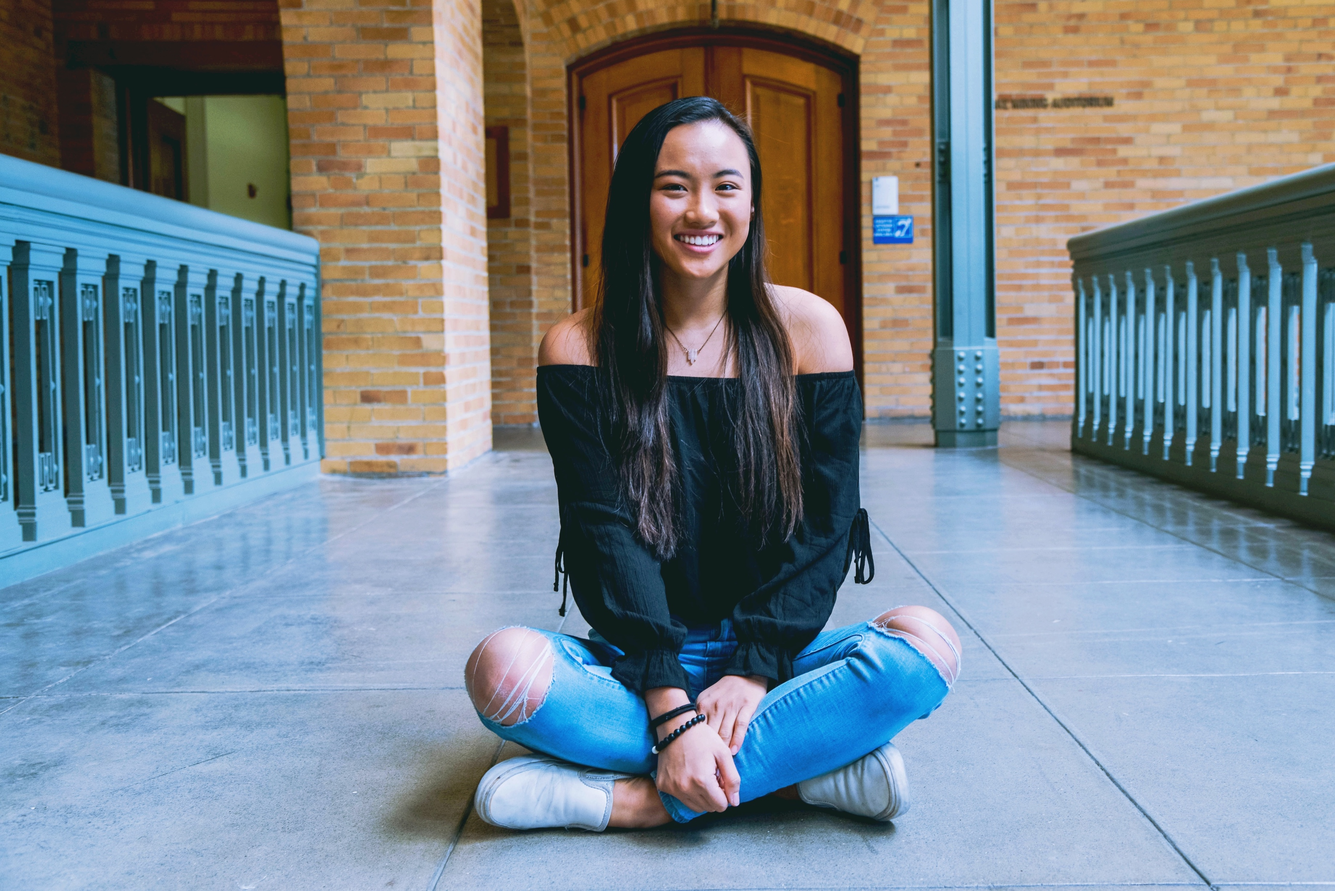
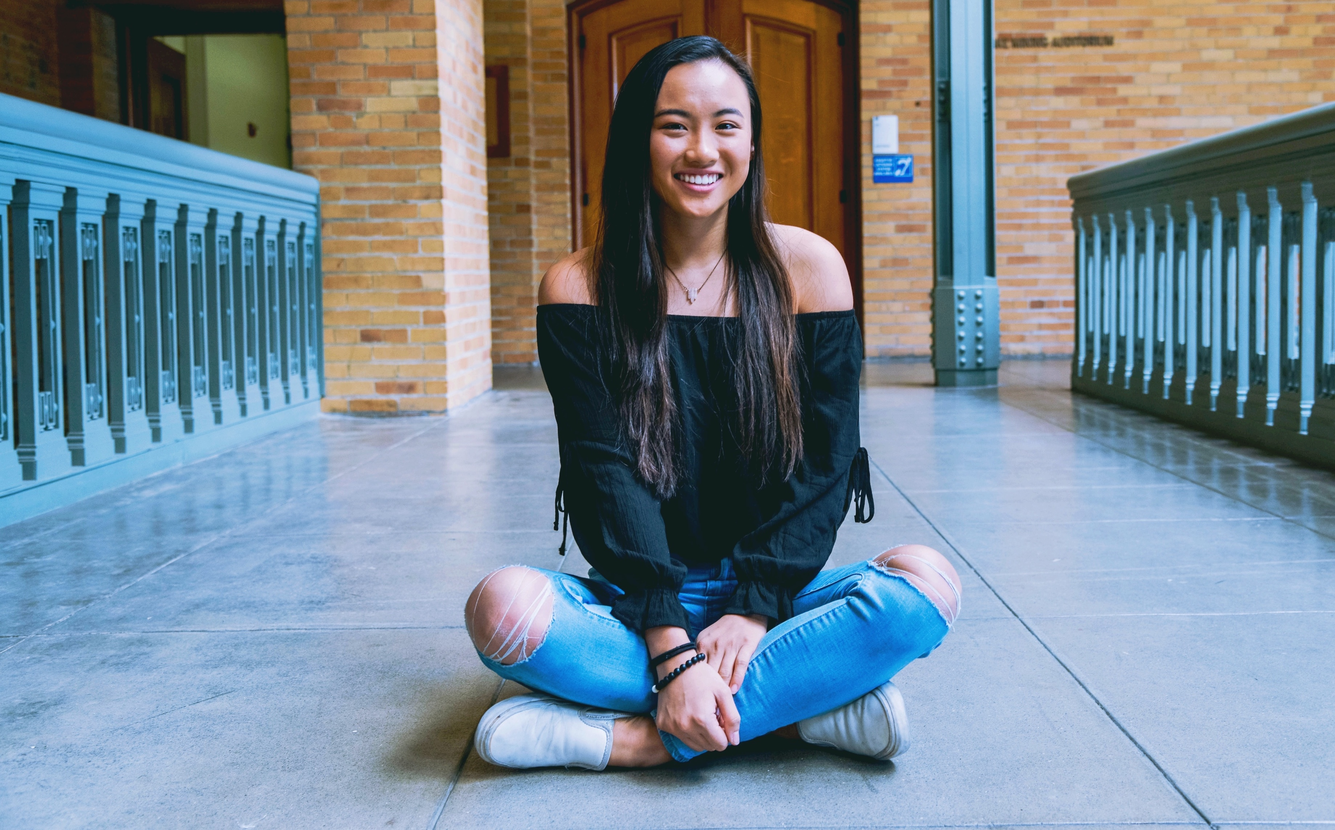
adding lots of stuff to wrap up basics

diff --git a/src/components/Home.js b/src/components/Home.js
@@ -6,21 +6,21 @@ import Profile from './pictures/profile.jpg';
 class App extends Component {
   render() {
     return (
-      <div className="background">
-          <div className="background-text">
-            <h className="home-title">RACHEL LAU</h>
-            <br/>
-            <p className="text">
-              <Link className="home-route-button" to='/about-me'>about me</Link>
-              &nbsp;•&nbsp;
-              <Link className="home-route-button" to='/projects'>projects</Link>
-              &nbsp;•&nbsp;
-              <Link className="home-route-button" to='/coffee'>coffee</Link>
-              &nbsp;•&nbsp;
-              <Link className="home-route-button" to='/photography/landscape'>photography</Link>
-            </p>
-            <a href="https://rachelslau.github.io" className="home-route-button old-versions">v1</a>
-          </div>
+      <div className="home-screen">
+        <img className="home-picture" src={Profile} width="100%"/>
+        <div className="background-text">
+          <h className="home-title">RACHEL LAU</h>
+          <br/>
+          <p className="text">
+            <Link className="home-route-button" to='/about-me'>about me</Link>
+            &nbsp;•&nbsp;
+            <Link className="home-route-button" to='/projects'>projects</Link>
+            &nbsp;•&nbsp;
+            <Link className="home-route-button" to='/coffee'>coffee</Link>
+            &nbsp;•&nbsp;
+            <Link className="home-route-button" to='/photography/landscape'>photography</Link>
+          </p>
+        </div>
       </div>
     );
   }

diff --git a/src/components/Coffee.js b/src/components/Coffee.js
@@ -1,15 +1,34 @@
 import React, { Component } from 'react';
 import '../Overall.css';
 import { Link } from 'react-router-dom';
+import Cat from './pictures/coffee/cat-coffee.gif';
 
 class App extends Component {
   render() {
     return (
       <div className="background">
-        <h>COFFEE</h>
+        <div className="left">
+          <h>COFFEE</h>
+          <img className="coffee-gif" src={Cat} alt="cat coffee gif" width="250px"/>
+        </div>
         <div className="button-box">
           <Link className="home-button" to='/'>home</Link>
           <Link className="home-button next-button" to='/photography/landscape'>photography</Link>
+        </div>
+        <div className="coffee-right">
+          <p className="text coffee-blurb">
+            Before coming to college, I never thought I would be a coffee person.
+            I couldn’t even walk into Starbucks without getting dizzy from the smell of coffee.
+            But now that I’m pulling long nights and actually need a caffeine kick every once in a while,
+            I decided to make a blog where I review drinks from some of the coffee shops I’ve visited during early mornings and late nights.
+            <br/><br/>
+            Check it out&nbsp;
+            <a className="coffee-link" href="https://anticoffeecoffeeclub.tumblr.com/">here</a>
+            !
+            <br/><br/>
+            p.s. I'm always looking for new places and drinks to try.
+            If you have any suggestions, feel free to comment them on the sidebar of my blog! 
+          </p>
         </div>
       </div>
     );

diff --git a/src/Overall.css b/src/Overall.css
@@ -64,11 +64,24 @@ body, html {
 
 /**************** HOME ****************/
 
+.home-screen {
+    width: 100vw;
+    height: 100vh;
+    overflow: hidden;
+}
+
+.home-picture {
+    opacity: 0.9;
+}
+
 .background-text {
+    color: white;
+    position: absolute;
+    top: 50%;
+    left: 50%;
+    width: 100%;
     text-align: center;
-    height: 100%;
-    margin-top: 10%;
-    z-index: 1;
+    transform: translate(-50%, -50%);
 }
 
 .home-title {
@@ -77,7 +90,7 @@ body, html {
 
 .home-route-button {
     text-decoration: none;
-    color: black;
+    color: white;
     transition: .5s ease;
 }
 
@@ -85,13 +98,6 @@ body, html {
     color: #84A8CC;
     transition: .5s ease;
     cursor: pointer;
-}
-
-.old-versions {
-    position: fixed;
-    bottom: 0;
-    text-align: right;
-    font-size: 25px;
 }
 
 /**************** ABOUT ME ****************/
@@ -196,7 +202,36 @@ body, html {
 
 /**************** COFFEE ****************/
 
+.coffee-gif {
+    display: block;
+}
 
+.coffee-right {
+    position: absolute;
+    background-color: #ACC8E5;
+    height: 100%;
+    left: 50%;
+    overflow-y: scroll;
+}
+
+.coffee-blurb {
+    background-color: white;
+    margin: 10px;
+    padding: 2.5%;
+    height: 90%;
+}
+
+.coffee-link {
+    color: #ACC8E5;
+    text-decoration: none;
+    cursor: pointer;
+    transition: .5s ease;
+}
+
+.coffee-link:hover{
+    color: black;
+    transition: .5s ease;
+}
 
 /**************** PHOTOGRAPHY ****************/
 

diff --git a/src/components/Project.js b/src/components/Project.js
@@ -4,6 +4,8 @@ import { Link } from 'react-router-dom';
 import Project from './IndividualProjects.js';
 import Hack from './pictures/projects/hackathon.png';
 import World from './pictures/projects/world.png';
+import Tea from './pictures/projects/morning-tea.png';
+import TwentyFour from './pictures/projects/24.png';
 
 class App extends Component {
   render() {
@@ -31,12 +33,12 @@ class App extends Component {
               name="Build Your Own World" />
             <Project
               url="https://rachelslau.github.io/morning-tea/"
-              picture={Hack}
+              picture={Tea}
               description="morning-tea"
               name="Morning Tea" />
             <Project
               url="https://rachelslau.github.io/p5/empty-example"
-              picture={Hack}
+              picture={TwentyFour}
               description="24-game"
               name="24 Points Game" />
           </div>
